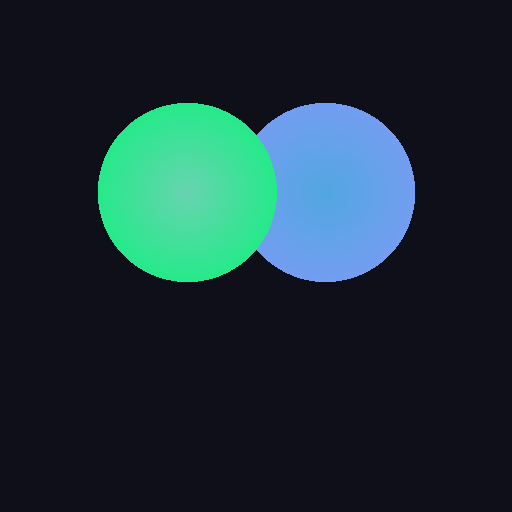
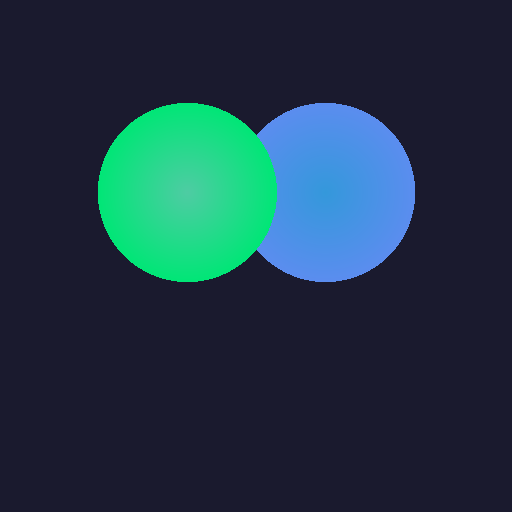
up

Changed region(s): [[0.1875, 0.1875, 0.8125, 0.5625]]

diff --git a/index.html b/index.html
@@ -34,7 +34,10 @@
     <!-- 注册/登录面板 -->
     <div id="setup-panel" class="panel">
         <div class="setup-box">
-            <h2 style="text-align:center;">🍃 P.Chat</h2>
+            <div style="text-align:center;margin-bottom:8px;">
+                <img src="./logo.svg" alt="PChat" style="width:48px;height:48px;">
+            </div>
+            <h2 style="text-align:center;font-size:24px;margin:0;">P.Chat</h2>
             <p id="invite-from" style="display:none;color:#888;font-size:12px;margin-bottom:8px;text-align:center;"></p>
 
             <!-- 注册面板 -->
@@ -359,7 +362,7 @@
     <script src="./dist/jsqr.min.js"></script>
     <script src="./dist/pchat.js?v=20260516w"></script>
     <script>
-        const PCHAT_VERSION = '20260516.28';
+        const PCHAT_VERSION = '20260517.1';
         console.log('[PChat] Version: ' + PCHAT_VERSION);
     </script>
     <script>

diff --git a/sw.js b/sw.js
@@ -1,6 +1,6 @@
 // PChat Service Worker — offline cache
 const BASE = self.location.pathname.replace(/\/[^/]*$/, ''); // base path, e.g. /pchat or ''
-const CACHE = 'pchat-v20260517';
+const CACHE = 'pchat-v202605171';
 const FILES = [
   BASE + '/',
   BASE + '/index.html',